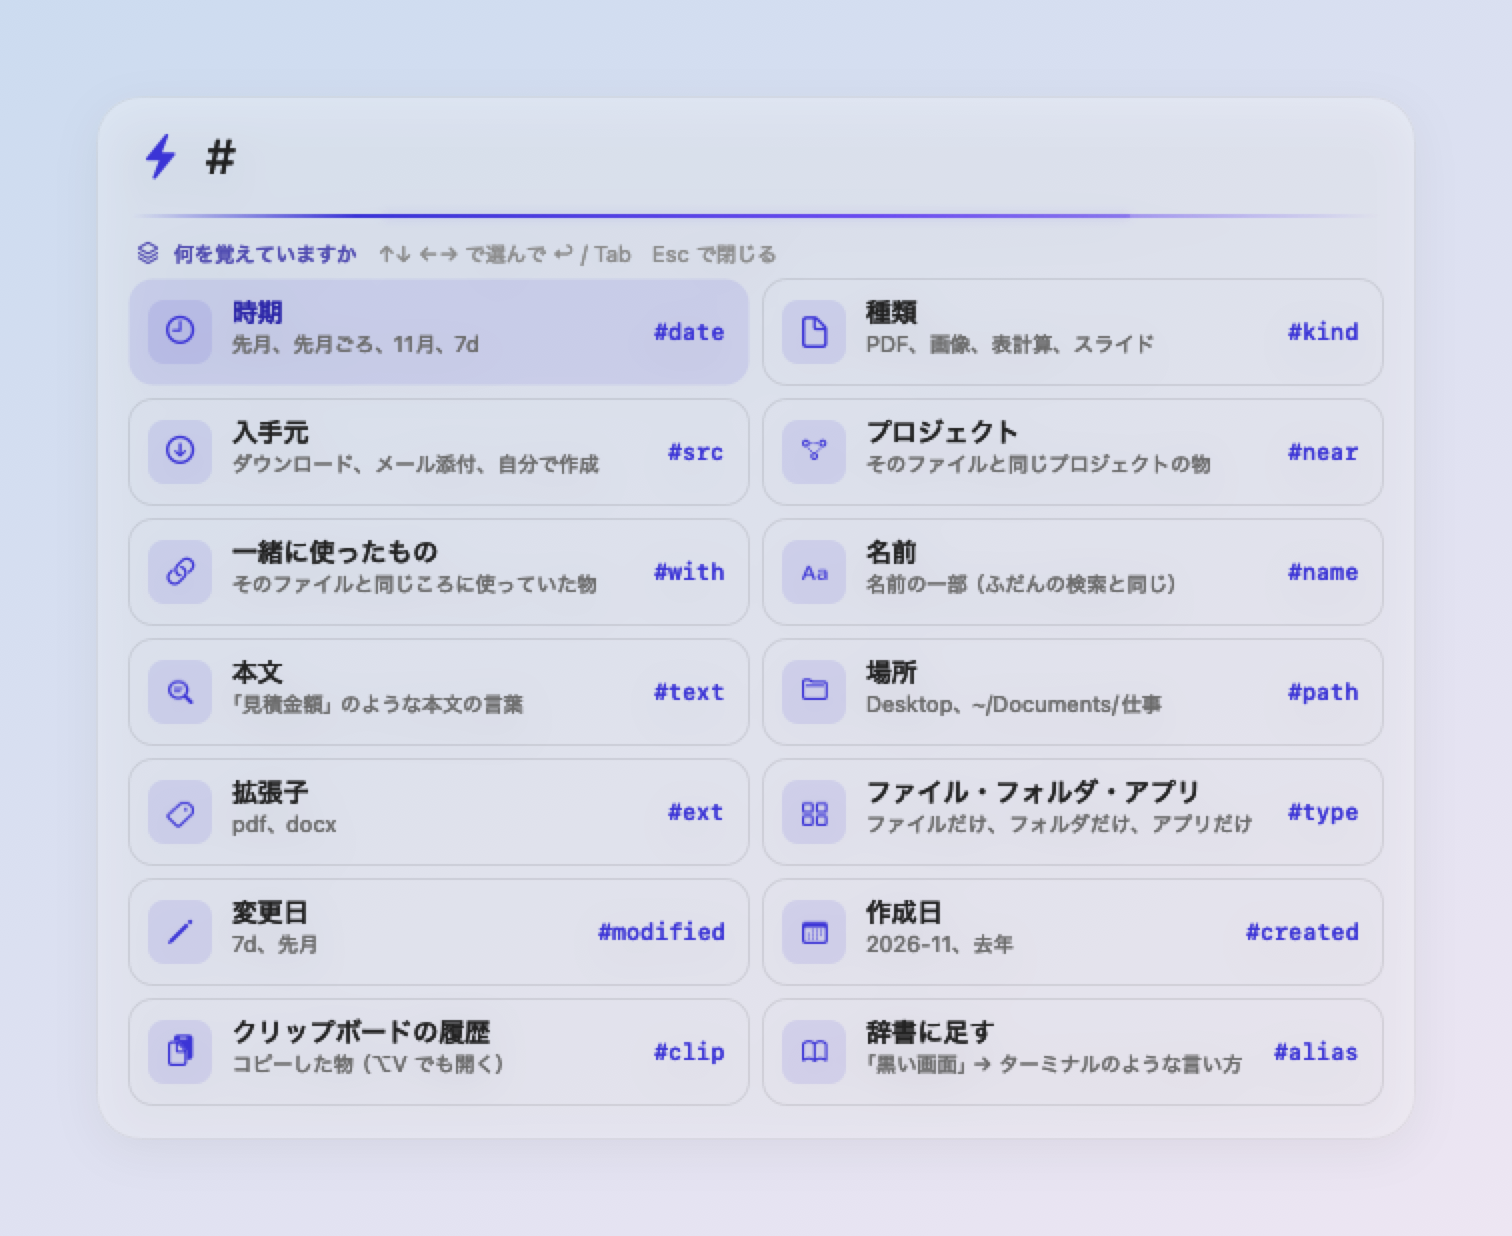
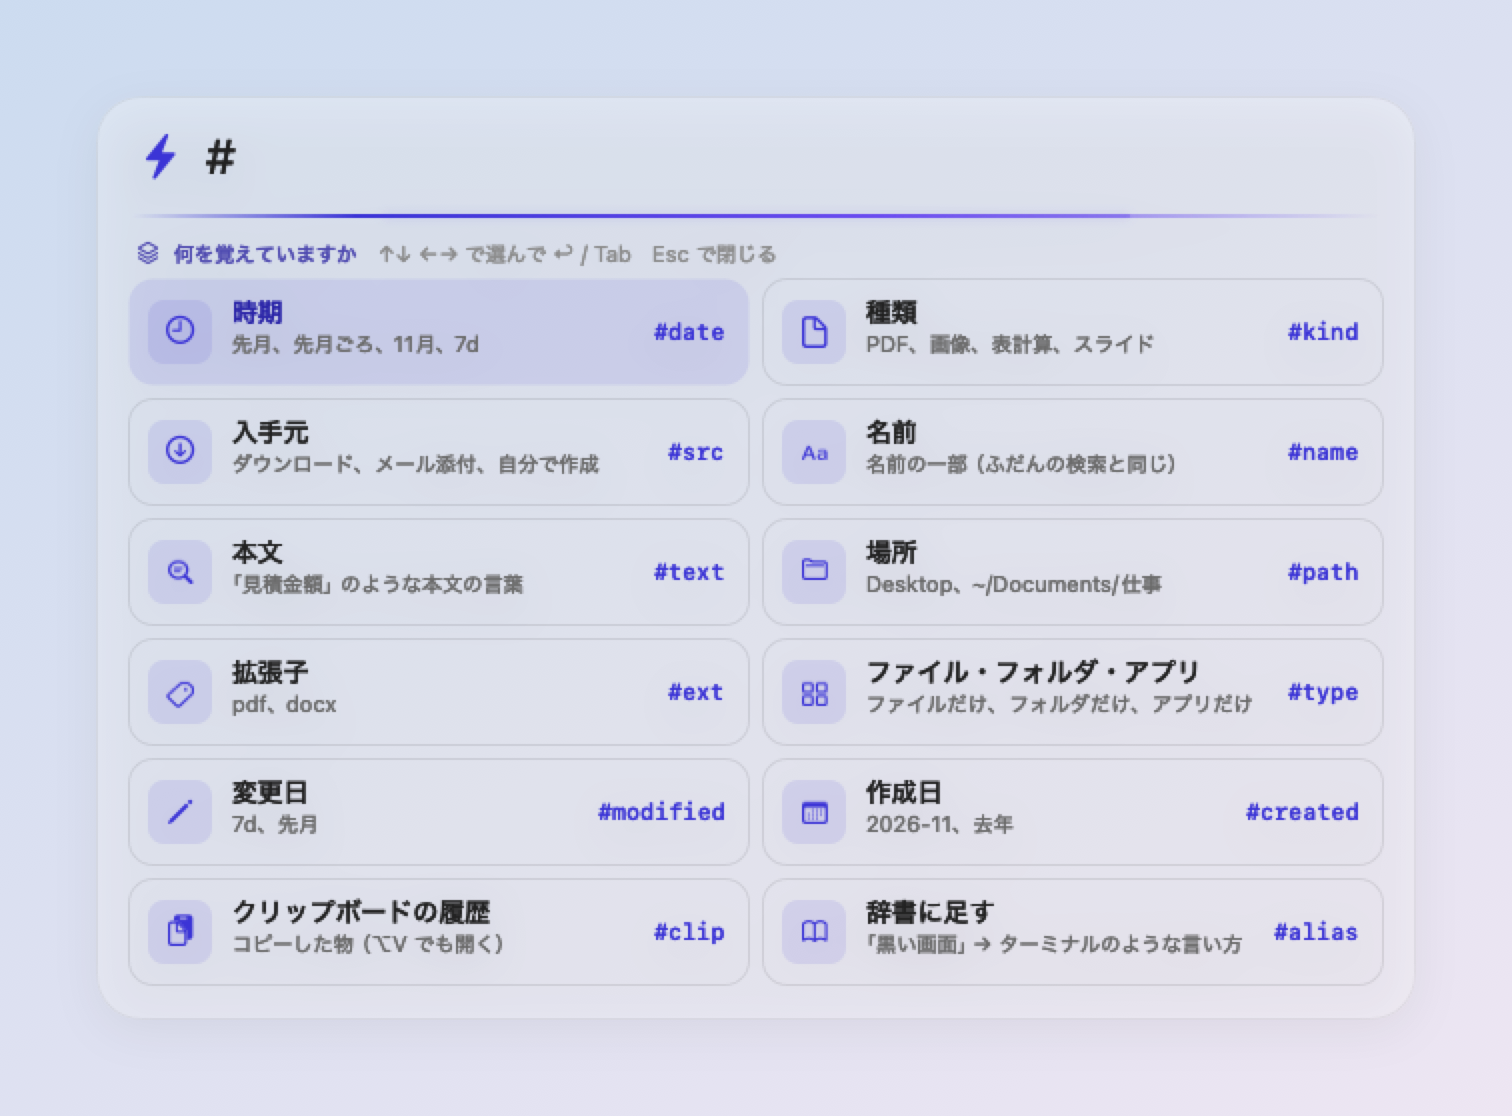
#with・#near は「#」の一覧から外し、見つけたファイルの行で ⌘→ を押して選ぶ（一覧の上に「一緒に使ったもの ⌘1・同じプロジェクト ⌘2」、選ぶと入力はそのチップだけ）

diff --git a/app/Sources/Raiden/SearchPanel.swift b/app/Sources/Raiden/SearchPanel.swift
@@ -402,8 +402,8 @@ struct RowItem {
     var isClip: Bool { if case .clip = preview { return true } else { return false } }
 
     static let appHint = "↩ 開く　⌘↩ Finder"
-    static let fileHint = "↩ 開く　⌘↩ Finder に表示"
-    static let folderHint = "↩ Finder で開く　⌘↩ 場所を表示"
+    static let fileHint = "↩ 開く　⌘↩ Finder に表示　⌘→ 基準に"
+    static let folderHint = "↩ Finder で開く　⌘↩ 場所を表示　⌘→ 基準に"
     static let clipHint = "↩ 貼り付け　⌘↩ コピーだけ"
 
     /// 親フォルダまでのパスを ~ で短くする（~/Documents/仕事）
@@ -683,6 +683,8 @@ final class SearchPanelController: NSObject, NSTextFieldDelegate, NSWindowDelega
                 return ev
             }
             if ev.keyCode == 1 && mods == .command { self.filterInput.beginSave(); return nil }   // ⌘S
+            // ⌘→: 選んでいるファイル・フォルダを基準に #with / #near を選ぶ（入力欄のカーソル移動より先に取る）
+            if ev.keyCode == 124, mods.subtracting([.function, .numericPad]) == .command, self.askAboutSelected() { return nil }
             // ⌘1〜⌘4: 一覧の上の絞り込みの問いに答える
             if mods == .command, let i = [18, 19, 20, 21].firstIndex(of: Int(ev.keyCode)), let sp = self.askSplit, sp.options.indices.contains(i) {
                 self.pickAsk(i); return nil
@@ -839,21 +841,7 @@ final class SearchPanelController: NSObject, NSTextFieldDelegate, NSWindowDelega
                     extra: [(NSView, CGFloat)] = [], palette: Bool = false, split: RecallSplit? = nil) {
         guard query == filterInput.currentQuery, palette || filterInput.palette == nil else { return }
         // 一覧の上の絞り込みの問い（一覧・見つからない・辞書の行き先を選ぶ間は出さない）
-        footer.subviews.forEach { $0.removeFromSuperview() }
-        askSplit = palette || (notFound && split?.total != 0) || filterInput.isPickingAlias ? nil : split
-        filterInput.asking = askSplit != nil
-        if let sp = askSplit {
-            let bar = AskBar(sp, width: Self.width) { [weak self] i in self?.pickAsk(i) }
-            bar.translatesAutoresizingMaskIntoConstraints = false
-            footer.addSubview(bar)
-            NSLayoutConstraint.activate([
-                bar.topAnchor.constraint(equalTo: footer.topAnchor), bar.bottomAnchor.constraint(equalTo: footer.bottomAnchor),
-                bar.leadingAnchor.constraint(equalTo: footer.leadingAnchor), bar.trailingAnchor.constraint(equalTo: footer.trailingAnchor),
-            ])
-            footerH = bar.preferredHeight
-        } else {
-            footerH = 0
-        }
+        installAsk(palette || (notFound && split?.total != 0) || filterInput.isPickingAlias ? nil : split)
         var secs = sections.filter { !$0.items.isEmpty }
         var notFound = notFound
         if !palette && filterInput.isPickingAlias {
@@ -964,6 +952,39 @@ final class SearchPanelController: NSObject, NSTextFieldDelegate, NSWindowDelega
     func showRecent() {
         guard field.stringValue.isEmpty, filterInput.committed.isEmpty, filterInput.palette == nil, filterInput.currentQuery.isEmpty else { return }
         setResults(recentSections?() ?? [], query: "")
+    }
+
+    /// 一覧の上に問いを出す（nil なら消す）。高さは footerH に入れ、並べ直しは呼ぶ側
+    private func installAsk(_ sp: RecallSplit?) {
+        footer.subviews.forEach { $0.removeFromSuperview() }
+        askSplit = sp
+        filterInput.asking = sp != nil
+        guard let sp else { footerH = 0; return }
+        let bar = AskBar(sp, width: Self.width) { [weak self] i in self?.pickAsk(i) }
+        bar.translatesAutoresizingMaskIntoConstraints = false
+        footer.addSubview(bar)
+        NSLayoutConstraint.activate([
+            bar.topAnchor.constraint(equalTo: footer.topAnchor), bar.bottomAnchor.constraint(equalTo: footer.bottomAnchor),
+            bar.leadingAnchor.constraint(equalTo: footer.leadingAnchor), bar.trailingAnchor.constraint(equalTo: footer.trailingAnchor),
+        ])
+        footerH = bar.preferredHeight
+    }
+
+    /// 選んでいるファイル・フォルダを基準にする問い（⌘→）。「一緒に使ったもの」（#with）か「同じプロジェクト」（#near）を
+    /// ⌘1・⌘2 か押して選ぶと、入力を書き換えてそのチップだけにする（打っていた言葉は外す。名前で絞られないように）
+    @discardableResult
+    func askAboutSelected() -> Bool {
+        guard !paletteRows, results.indices.contains(selected), case .file(let r)? = results[selected].candidate else { return false }
+        let short = (r.file.path as NSString).abbreviatingWithTildeInPath
+        let v = short.contains(where: \.isWhitespace) ? "\"\(short)\"" : short
+        let name = (r.file.path as NSString).lastPathComponent
+        let sp = RecallSplit(title: "「\(name)」を基準に探す", total: 0, options: [
+            .init(label: "一緒に使ったもの", symbol: "link", command: "#with " + v, count: -1, replaces: true),
+            .init(label: "同じプロジェクト", symbol: "point.3.connected.trianglepath.dotted", command: "#near " + v, count: -1, replaces: true),
+        ])
+        installAsk(sp)
+        layoutPanel(top: lastLayout.top, list: lastLayout.list)
+        return true
     }
 
     /// 絞り込みの問いの i 番目を選ぶ（打ったときと同じチップにする）

diff --git a/app/Sources/Raiden/FilterUI.swift b/app/Sources/Raiden/FilterUI.swift
@@ -733,6 +733,17 @@ enum FilterSnapshots {
             .init(label: "Downloads", symbol: "folder", command: "#path ~/Downloads", count: 92)])
         ak3.setResults([ResultSection(title: "ファイル・フォルダ", symbol: "folder", items: akRows)], query: ak3.filterInput.currentQuery, split: akSplit3)
         Snapshot.capture(ak3, dir + "/recall-ask-wrap.png")
+        // ⌘→: 選んでいるファイルを基準に #with / #near を選ぶ
+        let bw = panel("見積")
+        let bwRows = ["見積書_サンプル.pdf", "見積依頼_サンプル.md"].map {
+            RowItem(.file(FileResult(file: FileEntry(path: home + "/Documents/サンプル/" + $0, mtime: t("2026-11-18 15:00")), score: 1)))
+        }
+        bw.setResults([ResultSection(title: "ファイル・フォルダ", symbol: "folder", items: bwRows)], query: bw.filterInput.currentQuery)
+        bw.askAboutSelected()
+        Snapshot.capture(bw, dir + "/recall-base.png")
+        bw.pickAsk(0)
+        print(bw.filterInput.committed == ["#with ~/Documents/サンプル/見積書_サンプル.pdf"] && bw.queryText.isEmpty
+              ? "  ok  ⌘→ → ⌘1 で #with のチップだけになる" : "  NG  ⌘→ → ⌘1: \(bw.filterInput.committed) 「\(bw.queryText)」")
         // 見つからないときの「探し方を変える」（件数は見本）
         let nf = panel("見積", committed: ["#date 先月", "#kind pdf"])
         let nfSplit = RecallSplit(title: "探し方を変える", total: 0, options: [
@@ -1108,7 +1119,7 @@ enum FocusTest {
         var asked: [String] = []
         c.onQuery = { asked.append($0) }
         type(c, "#cl")
-        expect(c.filterInput.palette?.items.contains { $0.title == "#clip" } == true && !c.filterInput.clipMode, "「#cl」で一覧に #clip")
+        expect(c.filterInput.palette?.items.contains { $0.insert == "#clip" } == true && !c.filterInput.clipMode, "「#cl」で一覧に #clip")
         type(c, "ip ")
         expect(c.filterInput.clipMode && c.queryText.isEmpty && c.filterInput.palette == nil, "「#clip 」で履歴の状態「\(c.queryText)」")
         type(c, "請求")

diff --git a/app/Sources/RaidenCore/FilterCompletion.swift b/app/Sources/RaidenCore/FilterCompletion.swift
@@ -142,12 +142,11 @@ public enum FilterCompletion {
     }
 
     /// 「#」の一覧。覚えていることの言い方（時期・種類・入手元…）を見出しにし、コマンドは右に添える。並びは思い出しやすい順
+    /// #with・#near は一覧に出さない（基準のファイルが要るので、絞り込んで見つけた行から ⌘→ で選ぶ。打てば今までどおり効く）
     public static let commandItems: [(QueryFilters.Command, String, String, String, String)] = [
         (.date, "clock", "時期", "先月、先月ごろ、11月、7d", ""),
         (.kind, "doc", "種類", "PDF、画像、表計算、スライド", ""),
         (.src, "arrow.down.circle", "入手元", "ダウンロード、メール添付、自分で作成", ""),
-        (.near, "point.3.connected.trianglepath.dotted", "プロジェクト", "そのファイルと同じプロジェクトの物", ""),
-        (.with, "link", "一緒に使ったもの", "そのファイルと同じころに使っていた物", ""),
         (.name, "textformat", "名前", "名前の一部（ふだんの検索と同じ）", ""),
         (.text, "text.magnifyingglass", "本文", "「見積金額」のような本文の言葉", ""),
         (.path, "folder", "場所", "Desktop、~/Documents/仕事", ""),

diff --git a/app/Sources/raiden-eval/FilterLearningEval.swift b/app/Sources/raiden-eval/FilterLearningEval.swift
@@ -209,7 +209,7 @@ func runFilterLearningTests(ctx: FilterContext) -> (Int, Int) {
     let wv2 = pal("#near 見積", ctx: nc, memory: mem)?.items.map(\.title) ?? []
     expect(wv2 == ["見積書.pdf", "見積書_サンプル.pdf"], "名前の一部で絞る \(wv2)")
     expect(pal("#with ", memory: mem)?.items.first?.insert == "~/Downloads/請求書.pdf", "決めると ~/ のパスが入る")
-    expect(FilterCompletion.commands(matching: "").contains { $0.insert == "#with" } && FilterCompletion.commands(matching: "ne").first?.insert == "#near", "一覧に #with・#near")
+    expect(!FilterCompletion.commands(matching: "").contains { $0.insert == "#with" || $0.insert == "#near" } && FilterCompletion.commands(matching: "ne").isEmpty, "一覧に #with・#near は出さない（行から ⌘→）")
 
     print("== 辞書")
     let dict = [

diff --git a/app/Sources/Raiden/AskBar.swift b/app/Sources/Raiden/AskBar.swift
@@ -21,8 +21,9 @@ final class AskBar: NSView {
         icon.contentTintColor = PanelStyle.indigo
         var pills: [NSView] = []
         for (i, o) in split.options.enumerated() {
-            let n = o.count >= 1000 && o.replaces ? "1000以上" : FilterCompletion.countText(o.count)
-            let p = ChipBar.pill("⌘\(i + 1)  \(o.label)  \(n)", symbol: o.symbol, filled: false)
+            // count が負なら件数を出さない（⌘→ の「基準に探す」）
+            let n = o.count < 0 ? "" : "  " + (o.count >= 1000 && o.replaces ? "1000以上" : FilterCompletion.countText(o.count))
+            let p = ChipBar.pill("⌘\(i + 1)  \(o.label)\(n)", symbol: o.symbol, filled: false)
             p.onTap = { onPick(i) }
             p.toolTip = "\(o.command)（⌘\(i + 1)）"
             pills.append(p)
